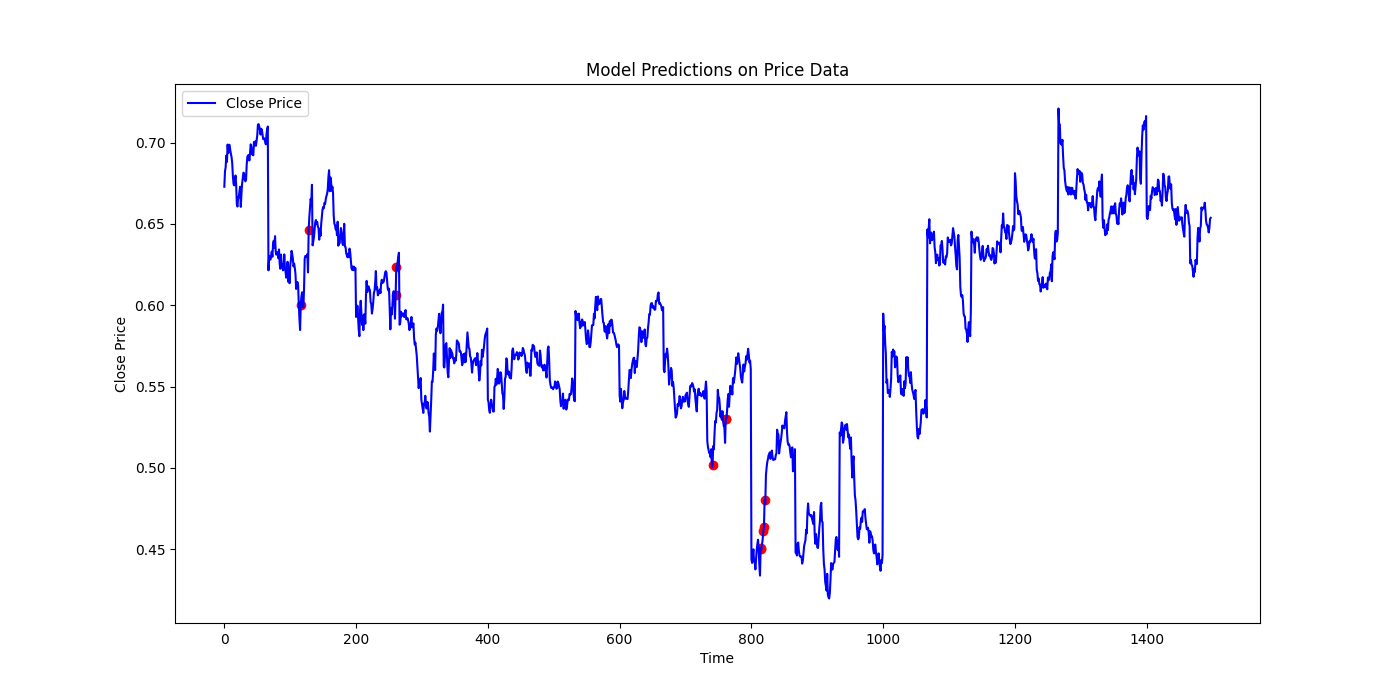
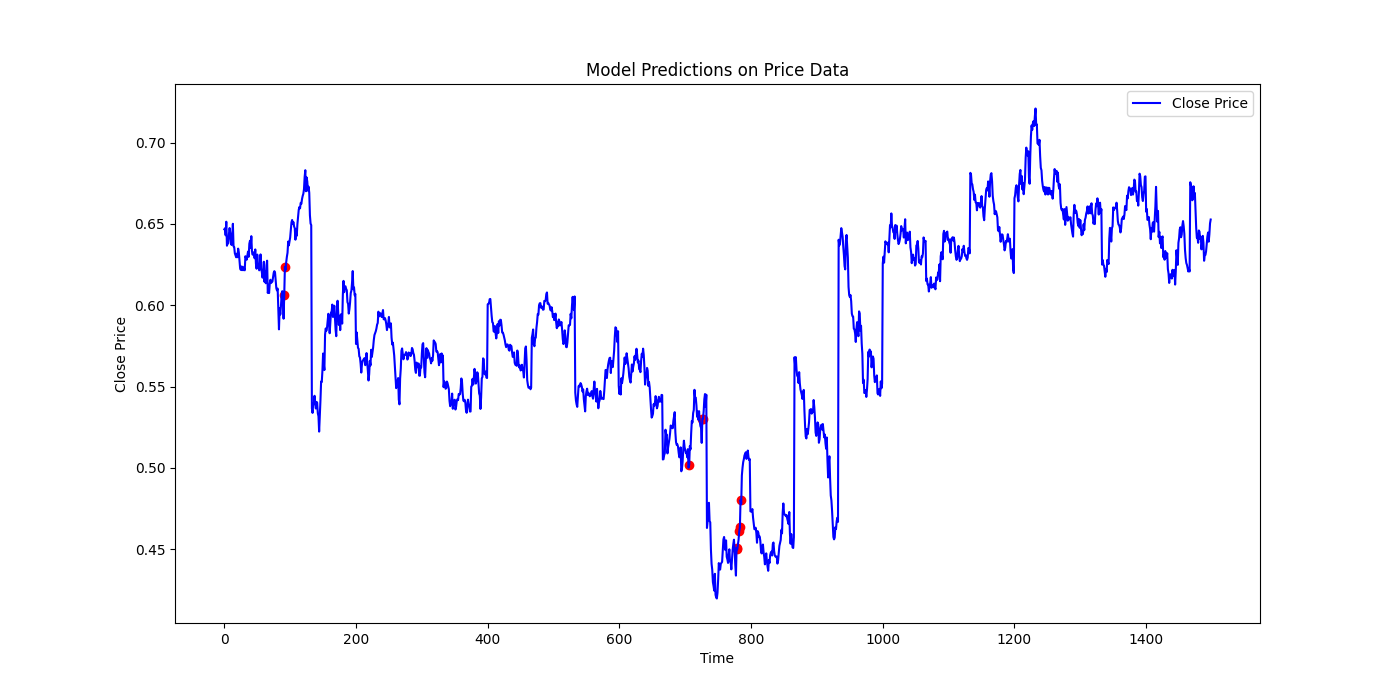
pc home

diff --git a/strategy/ai_cnn.py b/strategy/ai_cnn.py
@@ -66,8 +66,8 @@ cnn_model = {
                             'model': '30m.keras',
                             'scelar': '30m.gz',
                             'window_size': 3,
-                            'threshold_window': 0.02,
-                            'predict_percent': 0.8,
+                            'threshold_window': 0.03,
+                            'predict_percent': 0.5,
                             'trade': 'long',
                             'numeric': ['open', 'high', 'low', 'close', 'volume'],
                             'comment': 'Обучен на 2 месяцах 04.2024 и 03.2024'
@@ -84,6 +84,7 @@ stg_dict = {
                 'ctg': 'linear',
                 'exch': '',
                 'x': 1,
+                'decimal_part': 2,
                 'move': 'two',  # up, down, two
             }
 
@@ -111,15 +112,19 @@ class Strategy_AI_CNN(Api_Trade_Method):
         if self.CheckStopStartStg():
             #self.checkTakeProfit()
             self.predict_dict = self.checkAiPredict()
-            if predict_dict['buy']:
-                self.tryBuy(lastPrice)
+            current_lastprice_list = self.check_price(self.predict_dict['predict'])
+            if self.predict_dict['buy'] and current_lastprice_list:
+                print(f'current_lastprice_list {current_lastprice_list}')
+                self.tryBuy(current_lastprice_list)
         else:
             print(f"answer {ddict['answer']}")
 
-    def tryBuy(self, lastPrice):
-        # self.uuid = str(uuid.uuid4())
-        self.stg_dict = self.getStgDictFromBD()
-        tp = round(lastPrice + float(self.stg_dict['step']), self.decimal_part)
+    def tryBuy(self, current_lastprice_list):
+        print(f'покупаем')
+        # - тикер берет текущую цену
+        # - если timestamp есть в истории покупок в диапазоне 0.5% от текущей цены и времени, тогда не совершаем сделку
+        rounded_data = [{**current_lastprice_list, 'close': round(current_lastprice_list['close'], self.stg_dict['decimal_part'])} for current_lastprice_list in data]
+        print(rounded_data)
         tradeQ = self.session.query(TradeHistory).order_by(TradeHistory.id.desc())
         priceCountQ = self.session.query(TradeHistory).filter_by(price=str(lastPrice), filled=False)
         if priceCountQ.first():
@@ -216,6 +221,21 @@ class Strategy_AI_CNN(Api_Trade_Method):
         # - если это вторая покупка по цене, отменяем первый стоп и и ставим новый умноженный на 2
         self.session.close()
 
+    def check_price(self, last_price_dict):
+        # Получаем текущий timestamp
+        current_time = datetime.utcnow()
+        current_last_price_predict = []
+        for item in last_price_dict:
+            # Преобразование timestamp из словаря в объект datetime
+            record_time = datetime.utcfromtimestamp(int(item['timestamp']) / 1000)
+            # Разница времени между текущим моментом и timestamp в словаре
+            time_difference = current_time - record_time
+            # Проверяем, прошло ли менее 60 секунд
+            time_interval = 60 * int(item['interval']) * 2
+            if time_difference.total_seconds() <= time_interval:
+                current_last_price_predict.append(item['close'])
+        return current_last_price_predict
+
     def createTX(self, tx: dict, tp: dict):
         # print(f"tx {tx['result']}")
         # print(f"tp {tp['result']}")
@@ -235,6 +255,7 @@ class Strategy_AI_CNN(Api_Trade_Method):
 
     def checkAiPredict(self):
         predict_price = []
+        result = {}
         for key, value in cnn_model.items():
             if key == self.symbol:
                 for item in value:
@@ -252,8 +273,10 @@ class Strategy_AI_CNN(Api_Trade_Method):
                     predict = CNNPredict(model_dict=item,
                                    klines=klines)
                     predict_price.append(predict.run())
-        print(f'predict list: {predict_price}')
-        exit()
+                    result['buy'] = True
+                    result['predict'] = predict_price
+        print(f'predict list tyt: {predict_price}')
+        return result
 
     def checkTakeProfit(self):
         self.cleanHistory()
@@ -548,10 +571,9 @@ class CNNPredict():
         predict_price = []
         for predicted_class, close_price in zip(new_predicted_classes.flatten(), close_prices):
             if predicted_class == 1:
-                predict_price.append({close_price})
+                predict_price.append(close_price)
                 print(f"Class: {predicted_class}, Close Price: {close_price}")
-                break
-        return predict_price
+        return predict_price[-1]
 
     def prepare_new_data(self):
         #self.df['pct_change'] = self.df['close'].pct_change(periods=self.window_size)
@@ -565,10 +587,16 @@ class CNNPredict():
         x = []
         #y = []
         close_prices = []
+        timestamp = []
         for i in range(len(self.df_scaled) - self.window_size):
             # Получение цены закрытия на последнем шаге окна
-            close_price = self.df['close'].iloc[i + self.window_size - 1]
-            close_prices.append(close_price)
+            close_dict = {
+                'interval': self.model_dict['interval'],
+                'timestamp': self.df['timestamp'].iloc[i + self.window_size - 1],
+                # Получение соответствующего timestamp
+                'close': self.df['close'].iloc[i + self.window_size - 1]  # Получение цены закрытия
+            }
+            close_prices.append(close_dict)
             #change = self.df['pct_change'].iloc[i + self.window_size]  # Использование ранее рассчитанного изменения
             x.append(self.df_scaled[['open', 'high', 'low', 'close', 'volume']].iloc[i:i + self.window_size].values) # , 'volume', 'count', 'taker_buy_volume'
             # Создание бинарной целевой переменной
@@ -577,7 +605,6 @@ class CNNPredict():
 
     def klines_to_df(self, klines):
         df = pd.DataFrame(klines, columns=['timestamp', 'open', 'high', 'low', 'close', 'volume', 'value'])
-        df.drop('timestamp', axis=1, inplace=True)
         df.drop('value', axis=1, inplace=True)
         float_columns = ['open', 'high', 'low', 'close', 'volume']
         df[float_columns] = df[float_columns].astype(float)

diff --git a/models.py b/models.py
@@ -65,3 +65,4 @@ class TradeHistory(Base):
     stg: Mapped['Strategy'] = relationship(back_populates="tx")
     stg_id: Mapped[int] = mapped_column(ForeignKey("strategy.id"))
 
+
